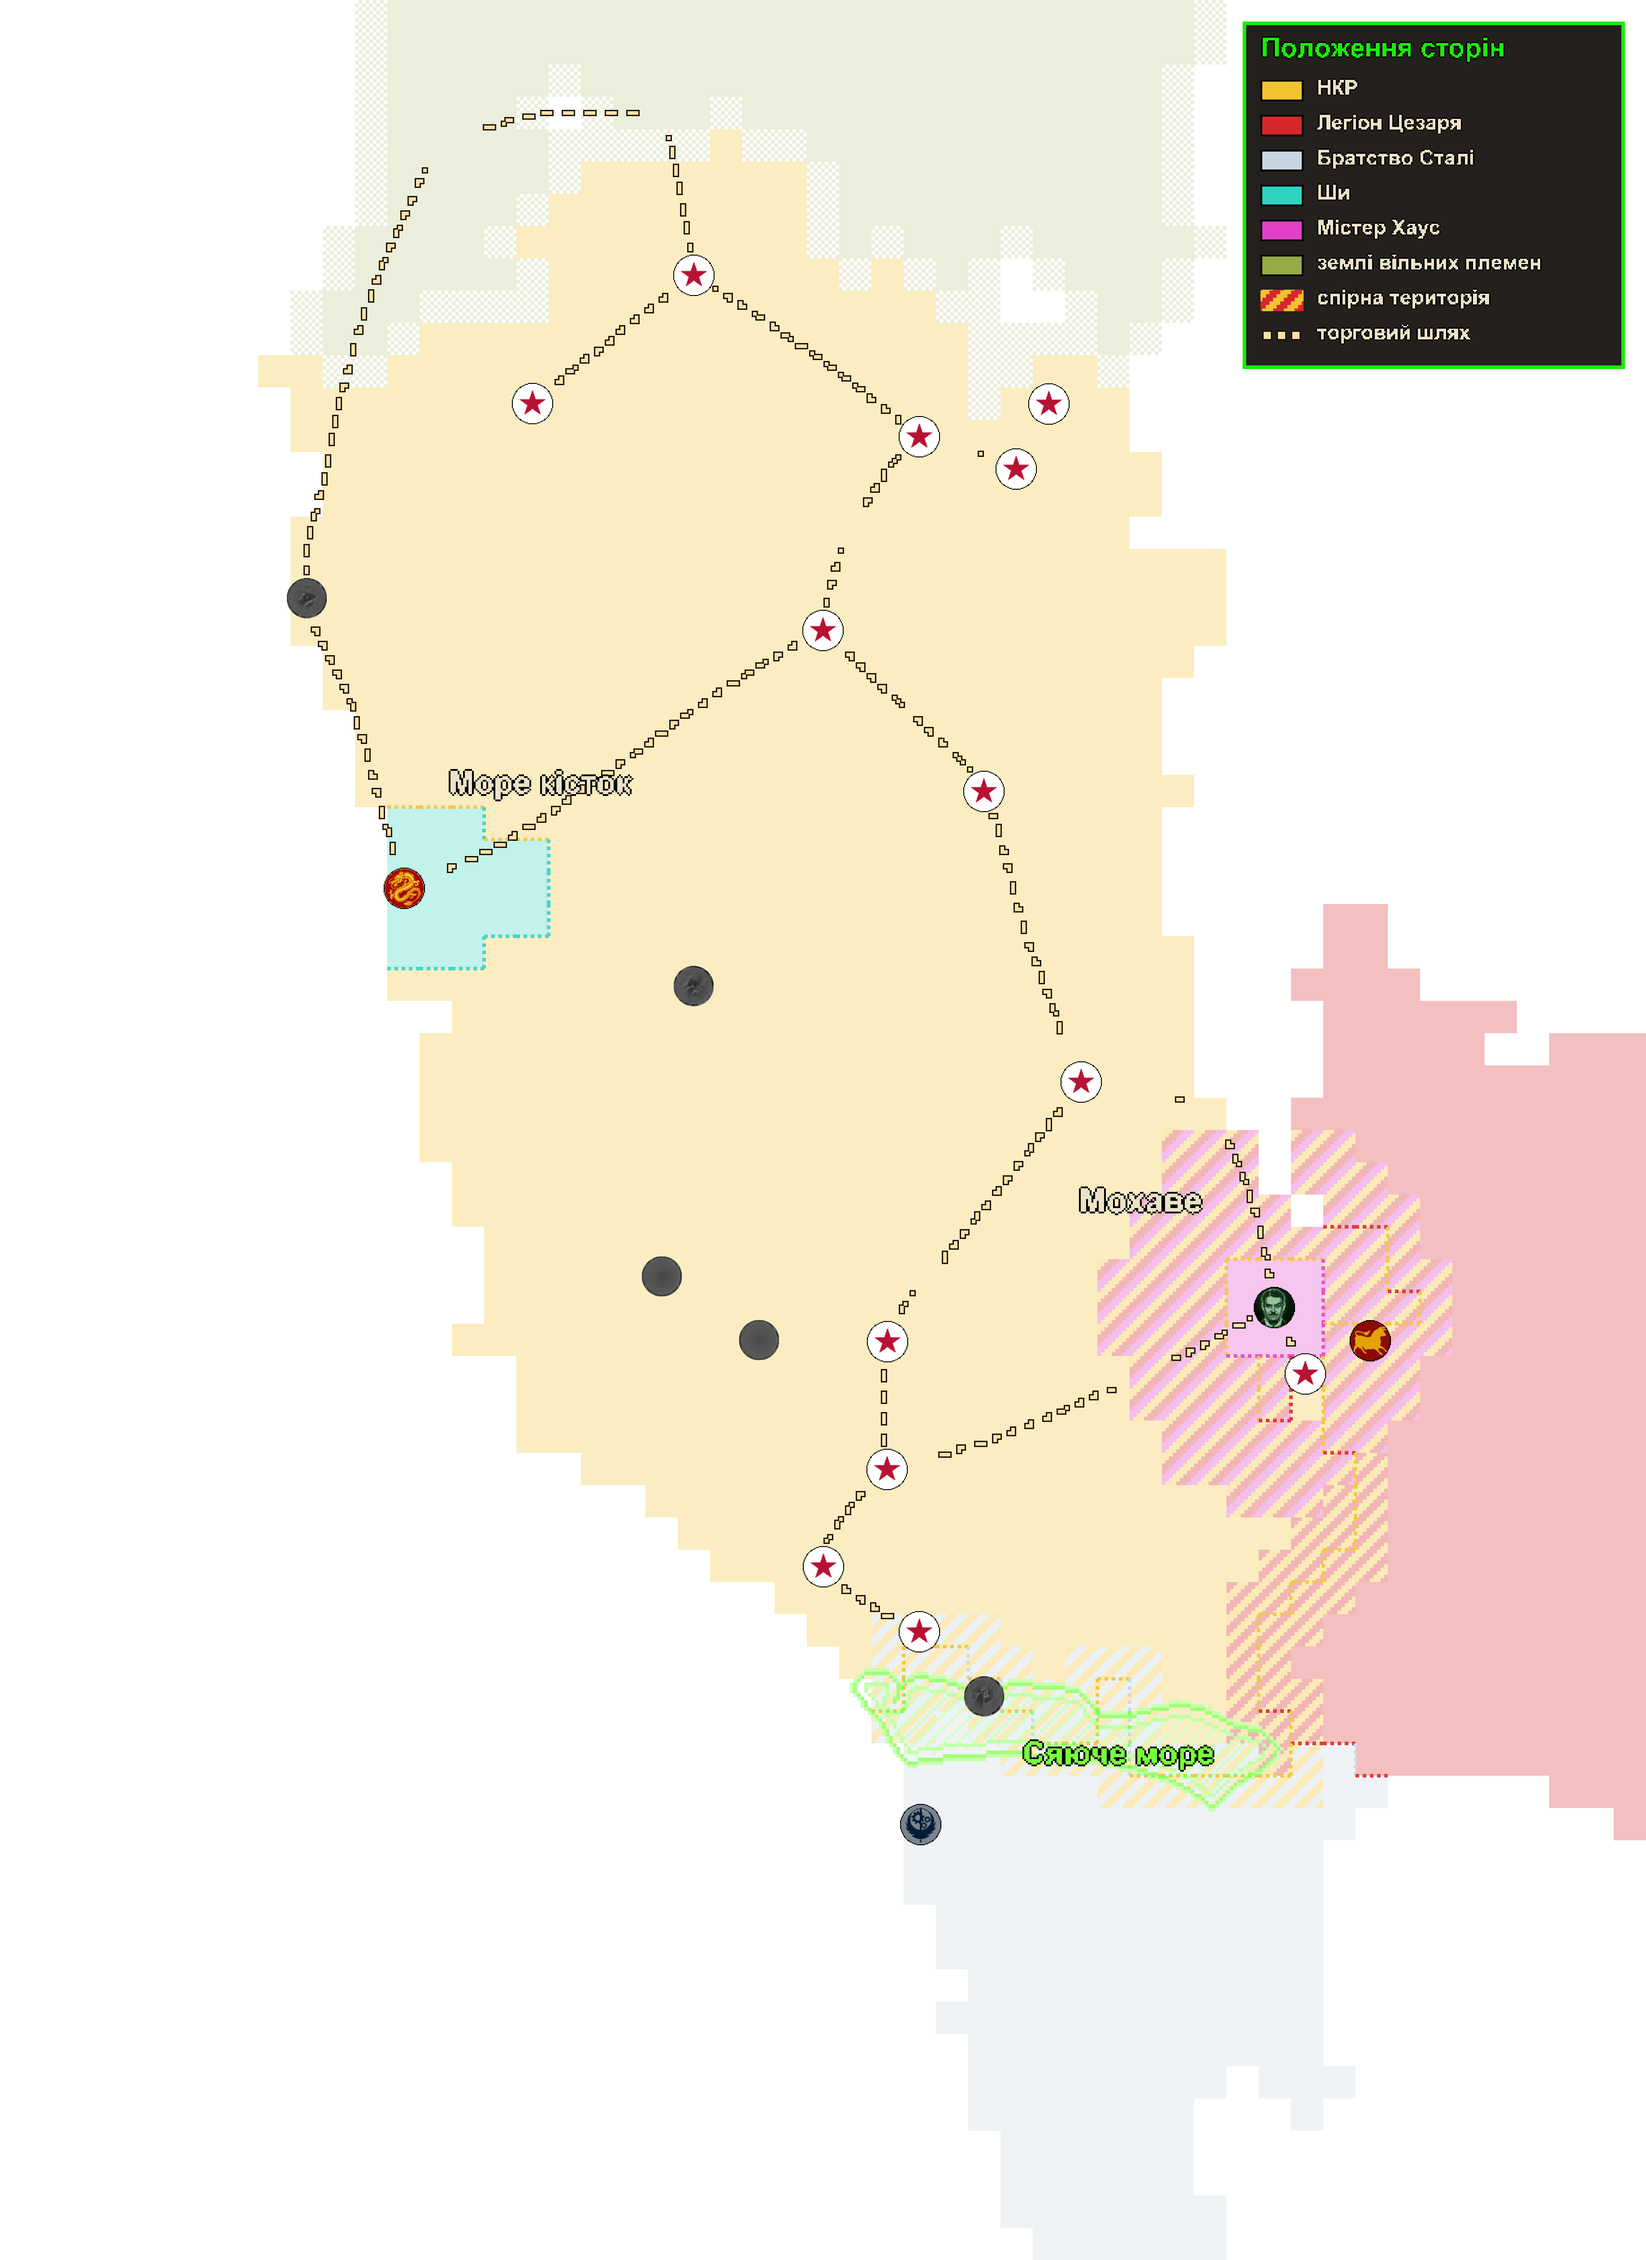
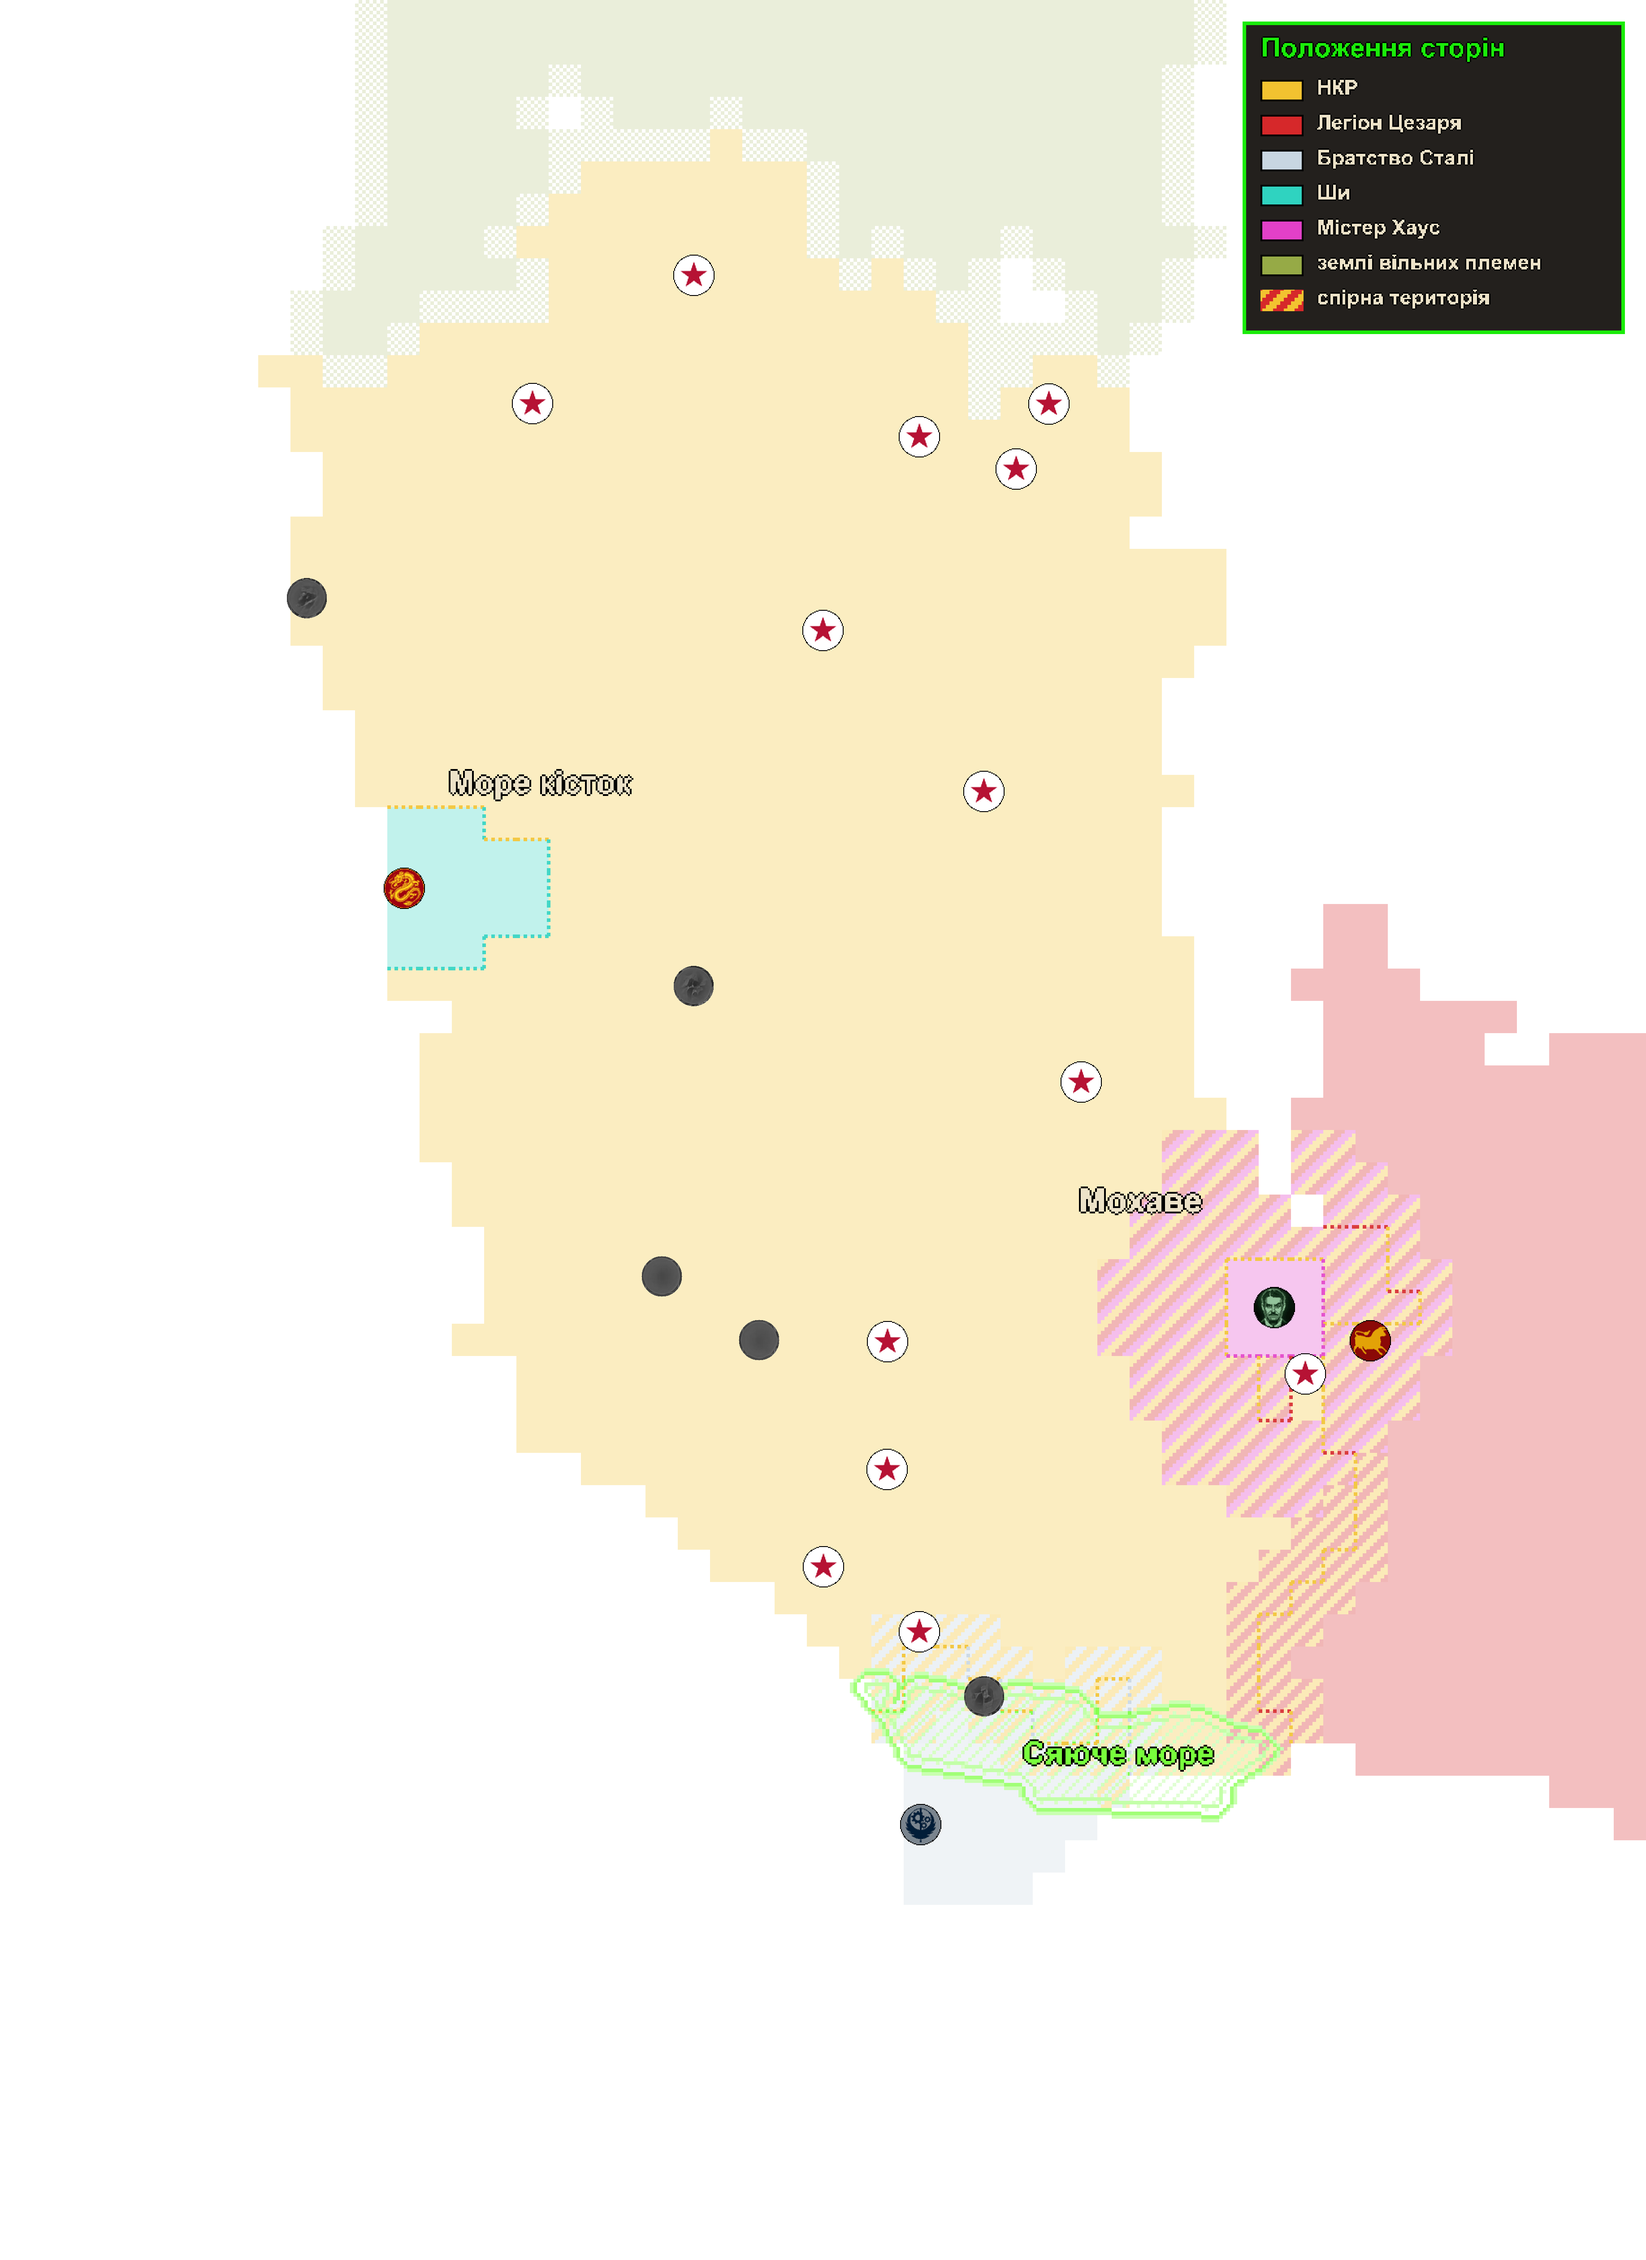
«Мапа Пустки»: «Фракції» and «Шляхи» are two layers with two switches; Сяюче море larger, Братство smaller as drawn (author, 2026-11-19)

diff --git a/css/pust-terminal.css b/css/pust-terminal.css
@@ -308,6 +308,7 @@
 #pust-mapdock .pust-md-map .pust-md-layers { grid-column: 1 / 5; display: flex; align-items: center; gap: 6px; padding-top: 5px; border-top: 1px solid rgba(241, 230, 200, 0.15); font-size: 11.5px; color: #d8ccb0; }
 #pust-mapdock .pust-md-map button.pust-md-layer { flex: 0 0 auto; width: auto; height: 26px; flex-direction: row; gap: 5px; padding: 0 10px; border-radius: 13px; font-size: 11.5px; }
 #pust-mapdock .pust-md-map button.pust-md-layer > i { font-size: 12px; color: #f2c230; }
+#pust-mapdock .pust-md-map button.pust-md-layer[data-layer="routes"] > i { color: #f6e2a8; }
 #pust-mapdock .pust-md-map button.pust-md-layer.on { background: linear-gradient(180deg, #3f6b3a, #2b4a27); border-color: #8fd18a; color: #c9f5c2; box-shadow: inset 0 0 0 1px #8fd18a; }
 #pust-mapdock .pust-md-map button.pust-md-layer.on > i { color: #c9f5c2; }
 #pust-mapdock select, #pust-mapdock input { height: 30px; margin: 0; background: #0f1412; color: #3dff47; border: 1px solid #0d0f0e; border-radius: 4px; font-family: "PT Mono", monospace; font-size: 13px; }
